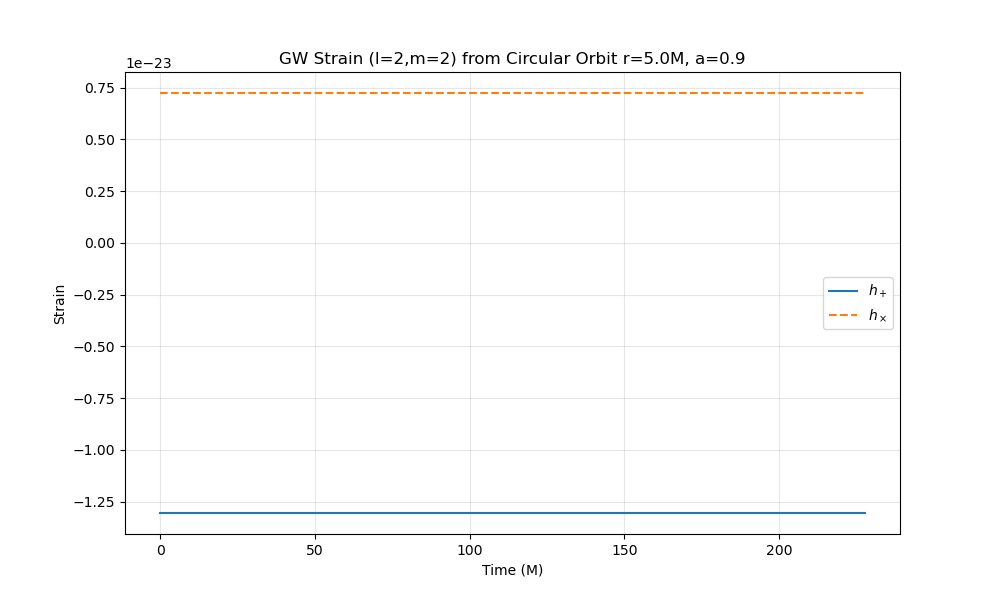
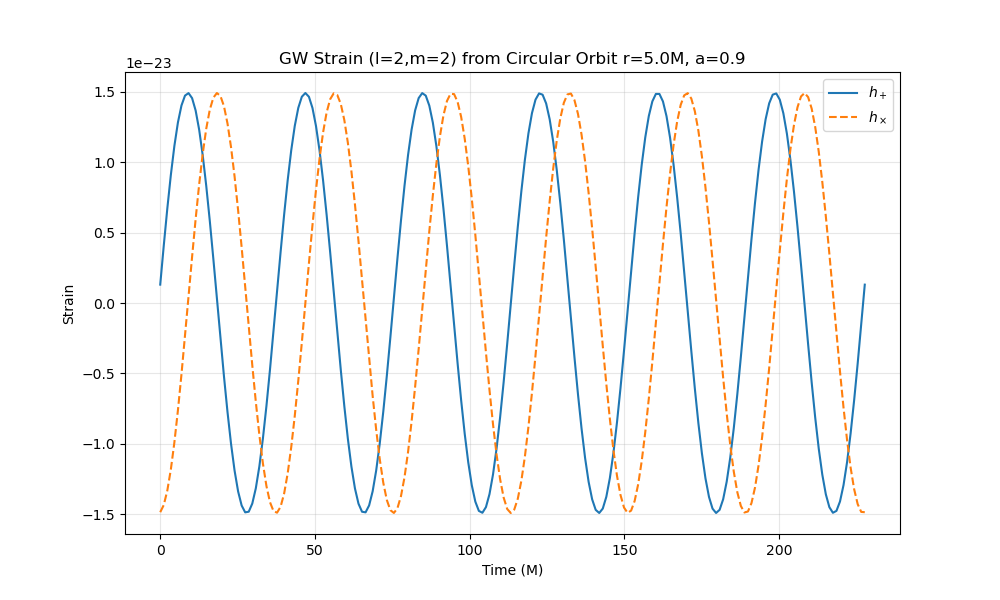
waveform 22

diff --git a/tests/test_waveform_generation.py b/tests/test_waveform_generation.py
@@ -110,7 +110,7 @@ def generate_waveform():
     
     # 简单的波形合成 (h ~ Z/r * exp(-i wt))
     S_22 = swsh_22.evaluate_S(math.cos(theta_obs))
-    r_star = r_obs_geo + 2*M_phys*math.log(r_obs/(2*M) - 1.0)
+    r_star = r_obs + 2*M*math.log(r_obs/(2*M) - 1.0)
     
     # h = -2/w^2 * psi4
     factor = -2.0 / (w_22**2 * r_obs_geo) * S_22 * Z_22*mu
